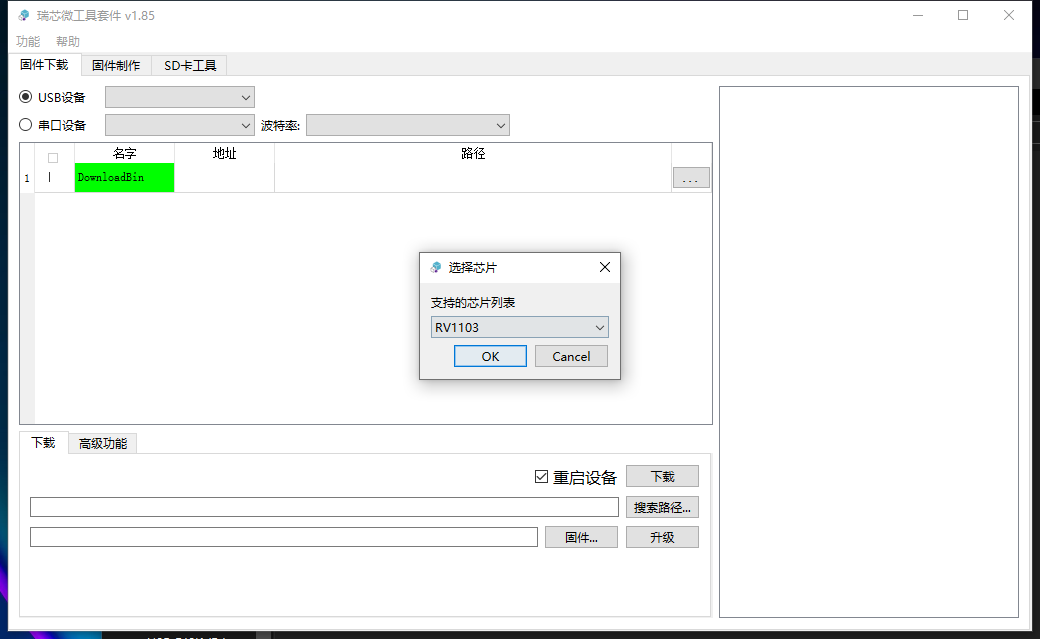
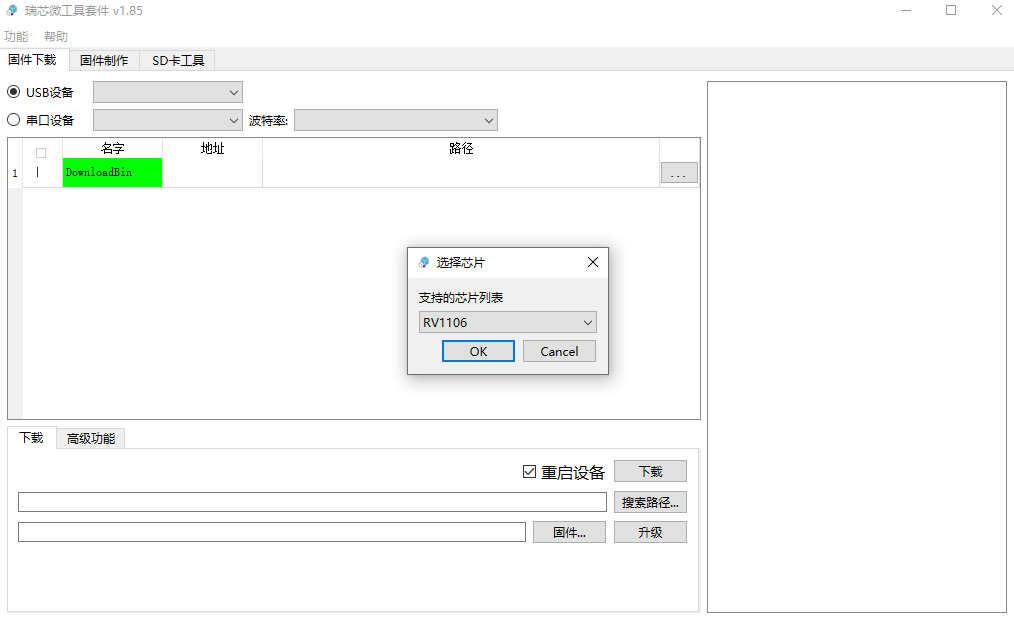
update readme: how to use wifi

Changed region(s): [[0.0, 0.0, 1.0, 1.0], [0.3974, 0.366, 0.6114, 0.61]]

diff --git a/SDK/README.md b/SDK/README.md
@@ -2,7 +2,7 @@
 
 </br>
 
-## :ledger: 获取SDK
+## :ledger: 1. 获取SDK
 
 你可以使用luckfox的原始仓库的SDK，但是需要改一些东西，例如：`.dts`, `.mk`,  `build.sh`, `insmod_wifi.sh`, `kernal config`, `buildroot config`等，luckfox的获取如下：
 
@@ -19,7 +19,7 @@ cd ./SDK/luckfox-pico-sdk
 
 </br>
 
-## 📥安装依赖
+## 📥2. 安装依赖
 
 ```shell
 sudo apt-get install repo git ssh make gcc gcc-multilib g++-multilib module-assistant expect g++ gawk texinfo libssl-dev bison flex fakeroot cmake unzip gperf autoconf device-tree-compiler libncurses5-dev pkg-config
@@ -27,11 +27,11 @@ sudo apt-get install repo git ssh make gcc gcc-multilib g++-multilib module-assi
 
 </br>
 
-## :black_nib: 更改luckfox原始SDK
+## :black_nib: 3. 更改luckfox原始SDK
 
-### 使用本仓库改过的SDK可跳过以下操作：
+### 注：使用本仓库改过的SDK可跳过以下操作：
 
-1. 首先需要修改设备树，因为需要使用到wifi以方便用户ssh或者连wifi运行demo，修改`<SDK路径>/sysdrv/source/kernel/arch/arm/boot/dts/rv1103g-luckfox-pico-plus.dts`
+1. 首先需要修改设备树，因为需要使用到wifi以方便用户ssh或者连wifi运行demo，修改`<SDK路径>/sysdrv/source/kernel/arch/arm/boot/dts/rv1106g-luckfox-pico-pro-max.dts`
 
    ```dts
    /***********mmc interface for wifi map to sdmmc1 set for sdio mode**********/
@@ -51,7 +51,7 @@ sudo apt-get install repo git ssh make gcc gcc-multilib g++-multilib module-assi
    };
    ```
 
-2. 板载配置需要使能WIFI，在`<SDK路径>/project/cfg/BoardConfig_IPC/BoardConfig-SD_CARD-Buildroot-RV1103_Luckfox_Pico_Plus-IPC.mk`加入如下语句
+2. 板载配置需要使能WIFI，在`<SDK路径>/project/cfg/BoardConfig_IPC/BoardConfig-SD_CARD-Buildroot-RV1106_Luckfox_Pico_Pro_Max-IPC.mk`加入如下语句
 
    ```sh
    # enable external wifi module
@@ -99,6 +99,7 @@ sudo apt-get install repo git ssh make gcc gcc-multilib g++-multilib module-assi
    	<img border="1px" width="60%" src="./images/kernel config-rtl8723.jpg">
    </p>
 
+
    然后保存
 
    ```shell
@@ -114,11 +115,11 @@ sudo apt-get install repo git ssh make gcc gcc-multilib g++-multilib module-assi
 
 </br>
 
-## 🔨编译
+## 🔨4. 编译
 
 最好详细查看luckfox的README文档。
 
-1. 首先需要在SDK文件夹选择板级配置，这里选择`[7]custom`，会弹出所有的`.mk`文件，选择echo mate的配置即可
+1. 首先需要在SDK文件夹选择板级配置，这里选择`[7]custom`，会弹出所有的`.mk`文件，选择echo mate的配置即可，当然你也可以选择直接用改过的原配置文件
 
    ```shell
    ./build.sh lunch
@@ -175,9 +176,9 @@ sudo apt-get install repo git ssh make gcc gcc-multilib g++-multilib module-assi
 
 </br>
 
-## 📥烧录
+## 📥5. 烧录
 
-1. 首先下载并打开瑞芯微的SocToolKit，进入，选择RV1103
+1. 首先下载并打开瑞芯微的SocToolKit，进入，选择RV1106
 
 <p align="center">
       	<img border="1px" width="75%" src="./images/SocToolKit-select.jpg">
@@ -189,4 +190,50 @@ sudo apt-get install repo git ssh make gcc gcc-multilib g++-multilib module-assi
 <p align="center">
       	<img border="1px" width="75%" src="./images/烧录SD.jpg">
 </p>
+
+</br>
+
+## 💻6. 开发板使用
+
+### 6.1 如何使用WIFI：
+
+1. 开启wifi
+
+   ```
+   ifconfig wlan0 up
+   ```
+
+2. 进入wpa conf，`vi /etc/wpa_supplicant.conf`，配置wifi名和密码
+
+   ```bash
+   ctrl_interface=/var/run/wpa_supplicant
+   ap_scan=1
+   update_config=1
+   
+   network={
+           ssid="luckfox"
+           psk="12345678"
+           key_mgmt=WPA-PSK
+   }
+   ```
+
+3. 创建一个socket文件
+
+   ```bash
+   mkdir -p /var/run/wpa_supplicant
+   ```
+
+4. 连接wifi
+
+   ```bash
+   wpa_supplicant -B -c /etc/wpa_supplicant.conf -i wlan0
+   ```
+
+5. 配置IP
+
+   ```bash
+   udhcpc -i wlan0
+   ```
+
+6. 然后你就可以ping一下baidu等网站测下网络了
 
